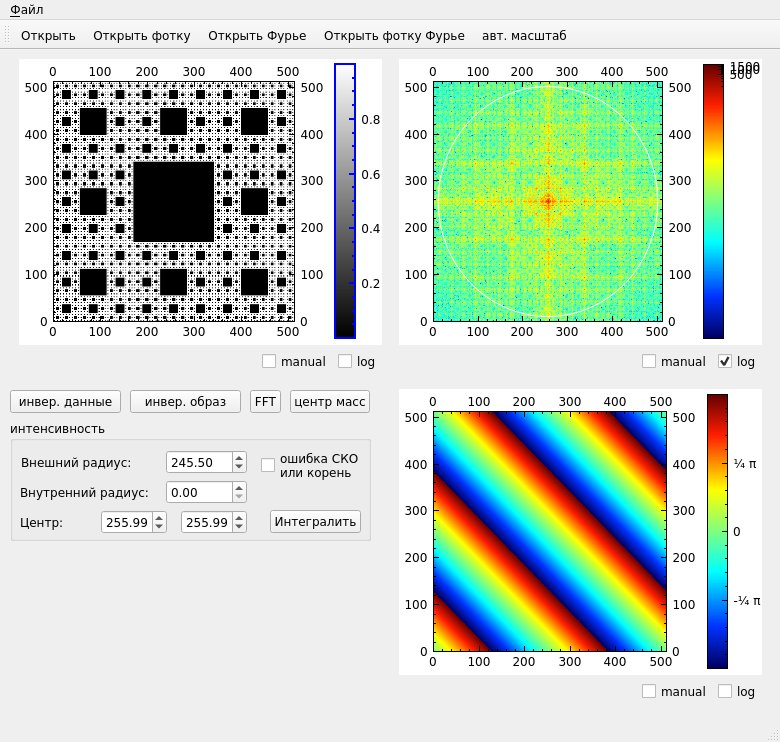
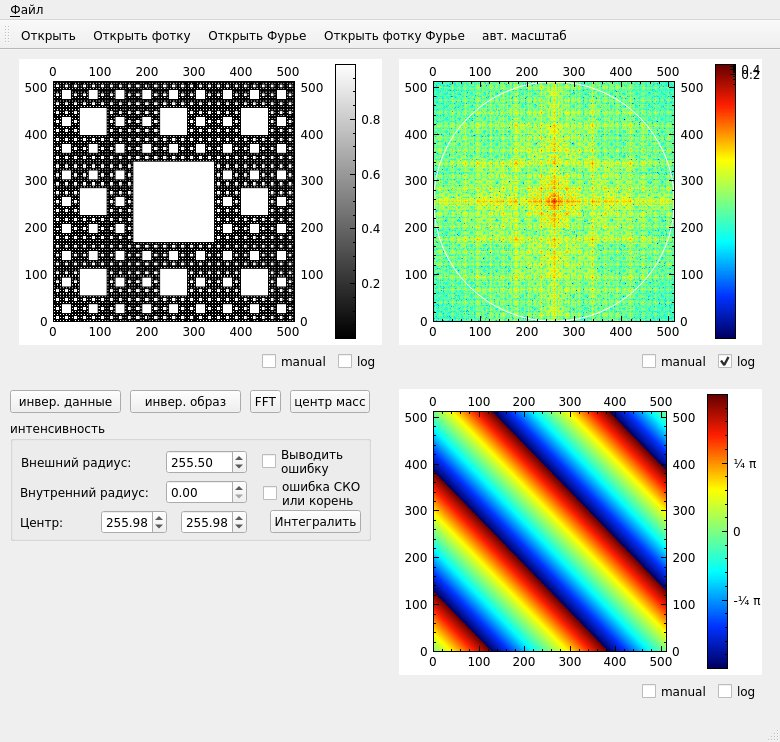
modern2

diff --git a/functions.cpp b/functions.cpp
@@ -199,12 +199,8 @@ void functions::makeFFT2D(data2d *data_in, data2d *data_out, data2d *data_out_ph
 
     for(int i=0;i<sx;i++){
         for(int j=0;j<sy;j++){
-            //data_out->data[i][j] = sqrt(real[i][j]*real[i][j]+imgn[i][j]*imgn[i][j]);
-                                   //sqrt(2*M_PI*sx)/sqrt(2*M_PI*sy);
             data_out->data[i][j] = 4*(real[i][j]*real[i][j]+imgn[i][j]*imgn[i][j])/sx/sx/sy/sy;
-                                   //sqrt(2*M_PI*sx)/sqrt(2*M_PI*sy);
             data_out_phase->data[i][j] = atan(imgn[i][j]/real[i][j]);
-
         }
     }
 

diff --git a/windowplot.cpp b/windowplot.cpp
@@ -62,8 +62,8 @@ void windowPlot::slot_plot(windowPlotValues val){
                   2,Qt::SolidLine,Qt::SquareCap,Qt::BevelJoin));
     }
 
-    slot_logX(true);
-    slot_logY(true);
+    slot_logX(actionLogX->isChecked());
+    slot_logY(actionLogY->isChecked());
     plot->rescaleAxes(true);
     plot->xAxis->scaleRange(1.2);
     plot->yAxis->scaleRange(1.2);
